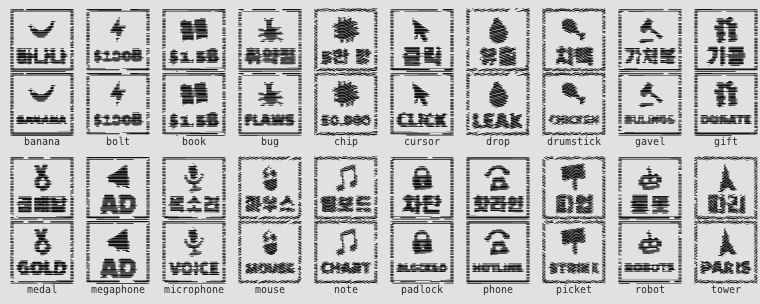
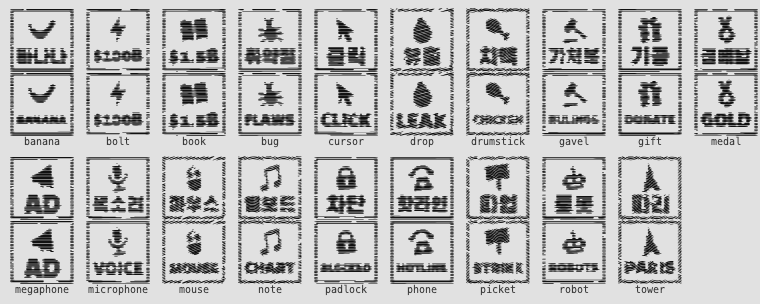
fix: picture box review (drop chip, winding, keyhole, stricter checks)
- Drop the chip picture: under the scene's wave lines it never read at 64px
  in any of four shapes. 19 pictures remain.
- Banana: body now clockwise like its stem (they cancelled where they
  overlapped), deeper curve and a bigger stem. Drop and right book page are
  clockwise too, so every solid part follows one rule.
- Padlock keyhole is one counter-clockwise piece (circle and slot overlapped
  and refilled).
- Unit test: each d has as many M as Z; cx, cy within 0-100.
- CLAUDE.md: several closed pieces per d, solid parts clockwise and holes
  counter-clockwise under nonzero fill; cx/cy is the bounding-box centre;
  picture sits above the keyword.
- Review doc section 4 and captures updated.

Claude-Session: https://claude.ai/code/session_01RNpVn6WPZS5tjdQ4X1q1o4

diff --git a/tests/unit/content.test.ts b/tests/unit/content.test.ts
@@ -43,7 +43,12 @@ describe('loadContent', () => {
     const names = Object.keys(c.pics), used = new Set(c.scenes.flatMap(s => s.items).flatMap(it => it.pic ? [it.pic] : []));
     expect(names.length).toBeGreaterThanOrEqual(10);
     expect([...used].sort()).toEqual([...names].sort());   // 쓰이지 않는 그림이 없다
-    for (const p of Object.values(c.pics)) expect(p.d.trim()).toMatch(/^M[\s\S]*Z$/);
+    for (const [name, p] of Object.entries(c.pics)) {
+      // 조각마다 닫혀 있다(M 수 = Z 수), 기준점은 100×100 안
+      expect(p.d.trim(), name).toMatch(/^M[\s\S]*Z$/);
+      expect((p.d.match(/[Mm]/g) ?? []).length, name).toBe((p.d.match(/[Zz]/g) ?? []).length);
+      for (const v of [p.cx, p.cy]) { expect(v, name).toBeGreaterThanOrEqual(0); expect(v, name).toBeLessThanOrEqual(100); }
+    }
   });
 
   test('requires a glyph on every event', () => {

diff --git a/docs/review/2026-10-25-content-review.md b/docs/review/2026-10-25-content-review.md
@@ -843,19 +843,18 @@
 
 ## 4. 그림 상자
 
-사건 20개에 그림을 붙였습니다(`content/pics.yaml`, 사건의 `pic`). 그림 상자는 위 60%에 그림, 아래 37%에 핵심어를 새깁니다. 핵심어는 그대로 두 언어 모두 그림 아래에 나옵니다.
+사건 19개에 그림을 붙였습니다(`content/pics.yaml`, 사건의 `pic`). 그림 상자는 위 60%에 그림, 아래 37%에 핵심어를 새깁니다. 핵심어는 그대로 두 언어 모두 그림 아래에 나옵니다.
 
 - 고른 기준
-  - 물건·장소·행위가 한눈에 떠오르는 사건만 골랐습니다(목소리 → 마이크, 금메달 → 메달, GPU → 칩, 치맥 → 닭다리, 파리 → 에펠탑). 숫자 핵심어 사건은 그 숫자가 가리키는 물건이 분명할 때만 붙였습니다(`$1.5B` 작가 소송 → 책, `$100B`(10GW) → 번개).
+  - 물건·장소·행위가 한눈에 떠오르는 사건만 골랐습니다(목소리 → 마이크, 금메달 → 메달, 치맥 → 닭다리, 파리 → 에펠탑). 숫자 핵심어 사건은 그 숫자가 가리키는 물건이 분명할 때만 붙였습니다(`$1.5B` 작가 소송 → 책, `$100B`(10GW) → 번개).
   - 로고·상표·실존 인물의 얼굴은 그리지 않았습니다. 디즈니, 몰트북·OpenClaw(바닷가재 마스코트), 회사·모델 이름 사건은 건너뛰었습니다. 바나나는 처음 그린 모양이 운동화 상표의 곡선처럼 보여, 굵고 양 끝이 뭉툭한 초승달에 꼭지를 단 모양으로 다시 그렸습니다.
   - 두 줄 핵심어 사건은 피했습니다. 그림 밑 핵심어 자리(상자의 37%)가 좁아 두 줄이면 글자가 너무 작아집니다.
 - 그리는 법
   - 칠한 실루엣만 씁니다(가는 외곽선은 칼선에서 사라집니다). 64px 상자에서 그림은 약 34px이고 칼선은 그림을 가로질러 22줄쯤입니다. 그래서 덩어리는 대개 10단위 이상으로 굵게 그렸고, 벌레 다리·자물쇠 열쇠 구멍·마우스 단추 틈처럼 가는 곳만 5~7단위입니다.
-  - `d` 하나에 여러 조각(subpath)을 담습니다. 칠하기 규칙이 nonzero라서 실선은 시계 방향, 구멍(메달의 별, 자물쇠 열쇠 구멍, 로봇 눈, 전화 다이얼)은 반시계 방향으로 그렸습니다.
+  - `d` 하나에 여러 조각(subpath)을 담습니다. 칠하기 규칙이 nonzero라서 실선은 시계 방향, 구멍(메달의 별, 자물쇠 열쇠 구멍, 로봇 눈, 전화 다이얼)은 반시계 방향으로 그렸습니다. 방향이 섞이면 실선이 겹친 곳이 비고, 구멍 두 조각이 겹친 곳은 다시 칠해집니다. 그래서 자물쇠 열쇠 구멍(동그라미와 홈)은 한 조각으로 그렸고, 모든 그림을 화소 단위로 검사해 뜻과 다르게 칠해진 곳이 없음을 확인했습니다.
   - `cx`·`cy`는 그림 경계 상자의 가운데입니다. 판에서 −0.12 rad 기울이므로 그림은 대략 12~88 안에 둡니다.
-- 뺀 것: 삼각 플라스크(2024-10-09 노벨 화학, 핵심어가 `노벨/화학` 두 줄이라 64px에서 읽히지 않음), 정지 표지판(2026-02-27 사용 중단, 작은 판에서 팔각형이 지도 핀처럼 보임).
+- 뺀 것: 삼각 플라스크(2024-10-09 노벨 화학, 핵심어가 `노벨/화학` 두 줄이라 64px에서 읽히지 않음), 정지 표지판(2026-02-27 사용 중단, 작은 판에서 팔각형이 지도 핀처럼 보임), 반도체 칩(2025-10-31 GPU 5만 장, 장면이 물결 칼선이라 64px에서 다리가 털처럼 번짐. 다리 셋·다리 둘·가운데 구멍·가로로 긴 칩 모양을 모두 해 봤지만 `#`이나 톱니바퀴처럼 보였음).
 - 특히 봐 주실 곳
-  - `chip`(2025-10-31): 장면이 물결 칼선이라 64px에서 다리가 털처럼 번집니다. 다리 둘·가운데 구멍도 해 봤는데 `#`이나 톱니바퀴처럼 보여 다리 셋을 남겼습니다.
   - `picket`(파업), `gavel`(가처분), `gift`(기증): 핵심어와 함께 보면 읽히지만 그림만으로는 약합니다. 빼도 되는 후보입니다.
 
 | 장면 | 날짜 | 사건 | 그림 이름 | 뜻(note) |
@@ -872,7 +871,6 @@
 | 2025-09-gigawatt | 2025-09-05 | $1.5B · Anthropic, 작가 집단소송에서 15억 달러 합의. AI 저작권 분쟁 사상 최대. | `book` | 펼친 책. 저자들의 책 |
 | 2025-09-gigawatt | 2025-09-22 | $100B · 엔비디아, OpenAI에 최대 1,000억 달러 투자 의향(10GW). 같은 시기 오라클·AMD·브로드컴과도 대형 계약. | `bolt` | 번개. 전력(기가와트) |
 | 2025-10-gyeongju-gpu | 2025-10-30 | 치맥 / CHICKEN · 서울 삼성동 치킨집에서 이재용 삼성전자 회장, 정의선 현대차그룹 회장과 ‘치맥 회동’. | `drumstick` | 닭다리. 치킨 |
-| 2025-10-gyeongju-gpu | 2025-10-31 | 5만 장 / 50,000 · 정부와 삼성·SK·현대차에 각 5만 장, 네이버클라우드에 6만 장. | `chip` | 다리가 달린 반도체 칩. GPU |
 | 2025-11-gemini-3 | 2025-12-09 | 기증 / DONATE · Anthropic, MCP를 리눅스 재단 산하 에이전틱 AI 재단에 기증. | `gift` | 선물 상자. 기증 |
 | 2025-11-music-deals | 2025-11-08 | 빌보드 / CHART · AI 가수 브레이킹 러스트의 ‘Walk My Walk’, 빌보드 컨트리 디지털 송 세일즈 1위. AI 곡의 첫 빌보드 차트 1위로 보도됐다. | `note` | 음표. 노래 |
 | 2026-02-chatgpt-ads | 2026-02-09 | AD · 미국 일부 이용자의 ChatGPT에 광고가 붙기 시작했다. 미성년자와 건강·정치 대화에는 광고를 넣지 않는다. | `megaphone` | 확성기. 광고 |

diff --git a/CLAUDE.md b/CLAUDE.md
@@ -38,13 +38,15 @@
 
 ## `pic` (그림 상자)
 
-- 사건 하나에 `pic: <이름>`을 쓰면 글자 대신 그림을 새깁니다. 이름은 `content/pics.yaml`에 있어야 합니다(없으면 빌드 오류).
+- 사건 하나에 `pic: <이름>`을 쓰면 상자 위 60%에 그림, 아래 37%에 핵심어를 새깁니다(`glyph`는 그대로 필요합니다). 이름은 `content/pics.yaml`에 있어야 합니다(없으면 빌드 오류).
 - 쓸 때: 윤곽선 하나로 한눈에 읽히는 사물이나 장면이 있는 사건에만 씁니다. 억지로 붙이지 않습니다. 모든 사건에 필요하지 않고, 전체의 일부(10~20개 안팎)면 됩니다.
 - 그리는 법:
-  - 좌표계는 **100×100**입니다. 윤곽선은 **닫힌 경로 하나**(`M … Z`)로, 칠해서 보여 줄 실루엣입니다.
+  - 좌표계는 **100×100**입니다. 윤곽선은 `d` 문자열 하나에 담고, 칠해서 보여 줄 실루엣입니다. 닫힌 조각(`M … Z`) 여러 개를 이어 써도 됩니다.
+  - 칠하기 규칙은 nonzero입니다. **실선 조각은 시계 방향, 구멍은 반시계 방향**으로 그립니다. 실선끼리 방향이 다르면 겹친 곳이 비고, 구멍 두 조각이 겹치면 그 자리가 다시 칠해지므로 한 구멍은 한 조각으로 그립니다.
+  - 판에서 −0.12 rad 기울여 새기므로 그림은 대략 12~88 안에 둡니다.
   - **로고, 상표, 얼굴(실존 인물)은 그리지 않습니다.** 사물과 장면의 일반적인 모양만 씁니다.
   - 작은 판(약 64px)에서도 읽혀야 하므로 가는 선과 세부 장식을 피하고 굵은 덩어리로 그립니다.
-- 항목은 `<이름>: { d, cx, cy, note }`입니다. `d`는 path 문자열, `cx`·`cy`는 그림의 무게중심(상자 가운데에 놓는 기준점), `note`는 무엇을 뜻하는지 한 줄입니다. 이름은 소문자·숫자·하이픈입니다.
+- 항목은 `<이름>: { d, cx, cy, note }`입니다. `d`는 path 문자열, `cx`·`cy`는 그림 경계 상자의 가운데(그림 칸 가운데에 놓는 기준점), `note`는 무엇을 뜻하는지 한 줄입니다. 이름은 소문자·숫자·하이픈입니다.
 
 ## 영어 문장 원칙
 
